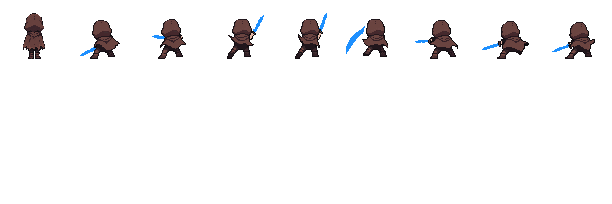
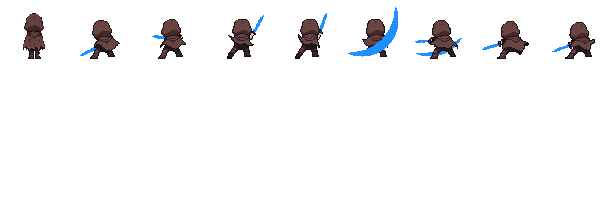
assets: 후면 1타 초승달 잔상 스크립트·비교 녹화

Changed region(s): [[0.5588, 0.0588, 0.652, 0.2941], [0.683, 0.2353, 0.7451, 0.2941], [0.7451, 0.1765, 0.7761, 0.2059]]

diff --git a/assets/concepts/pixellab/player_import/build_attack_back_pl.py b/assets/concepts/pixellab/player_import/build_attack_back_pl.py
@@ -26,8 +26,12 @@ KIT = os.path.join(HERE, 'attack_back_kit')
 PICK = {
     1: ['full_v3_1', 'full_v3_2', 'full_v3_3', 'full_v3_4', 'full_v3_5', 'full_v3_6', 'full_v3_7', 'full_v3_8'],
 }
-# 휘두르는 장에 겹칠 GPT 잔상: 타 → (8장 중 번호 0부터, GPT 시트 칸)
-ARC = {1: (4, 4)}
+# 휘두르는 장에 겹칠 GPT 잔상: 타 → (8장 중 번호 0부터, GPT 시트 칸). 1타는 아래 SWOOSH 로 대신 (5차)
+ARC = {}
+# 5차 (같은 날 사용자: 정면은 위압감 있게 딱 베는데 후면은 베는 느낌이 없음): 칼이 지나간 길대로 큰 초승달 잔상을 계산해 그린다.
+# 타 → [(8장 중 번호, 원 중심 x, y, 반지름, 시작 각도, 끝 각도, 가장 두꺼운 폭)]. 각도는 화면 기준(오른쪽 0, 아래 90).
+# 1타: 오른쪽 어깨 위에서 오른쪽 아래로 크게 부풀며 왼쪽 아래까지 (몸 뒤라 몸 밖으로 나온 부분만 보임), 다음 장은 얇게 남음.
+SWOOSH = {1: [(4, 22, 20, 36, -20, 112, 8), (5, 22, 20, 36, 30, 112, 4)]}
 # 좌우로 뒤집는 타 (2026-11-18 사용자: 측면·정면 1타는 화면 왼쪽 위로 들어 오른쪽 아래로 벰. GPT·PixelLab 후면은 반대였음).
 # 뒷모습은 거의 좌우 대칭이라 그림째 뒤집는다 (칼 위치는 build_remake_preview.OVERRIDES 'backpl1' 이 뒤집은 값).
 MIRROR = set()  # 3차에서 되돌림: 측면·정면처럼 오른쪽 위에서 내려벤다 (사용자 설명)
@@ -40,6 +44,27 @@ def blue_only(cell):
         for x in range(cell.width):
             if b.is_blue(src[x, y]):
                 dst[x, y] = pb.BLUE
+    return out
+
+
+SWOOSH_ON_TOP = {(1, 4)}  # 1타 내려베는 순간 (8장 중 5번째)
+
+
+def swoosh(size, cx, cy, r, a0, a1, thick):
+    """초승달 잔상 (파란 단색 = 게임에서 잔상 색으로 바뀜): 가운데가 가장 두껍고 양 끝은 가늘게."""
+    import math
+    out = Image.new('RGBA', size, (0, 0, 0, 0))
+    px = out.load()
+    steps = 240
+    for i in range(steps + 1):
+        t = i / steps
+        a = math.radians(a0 + (a1 - a0) * t)
+        w = thick * math.sin(math.pi * t) ** 0.7  # 바깥쪽으로 두께
+        for k in range(int(w * 4) + 1):
+            rr = r - k / 4
+            x, y = cx + rr * math.cos(a), cy + rr * math.sin(a)
+            if 0 <= x < size[0] and 0 <= y < size[1]:
+                px[int(x), int(y)] = pb.BLUE
     return out
 
 
@@ -56,6 +81,15 @@ def main():
                 arc = blue_only(gpt_rows[hit][ARC[hit][1]])
                 arc.alpha_composite(f)  # 잔상은 몸 뒤
                 f = arc
+            for k2, cx, cy, r, a0, a1, th in SWOOSH.get(hit, []):
+                if k2 == k:
+                    arc = swoosh(f.size, cx, cy, r, a0, a1, th)
+                    if (hit, k) in SWOOSH_ON_TOP:
+                        f = f.copy()
+                        f.alpha_composite(arc)  # 몸 위로도 이어지게 (게임은 build_remake_preview.SMEAR_ON_TOP 로 몸 위에 반투명하게)
+                    else:
+                        arc.alpha_composite(f)  # 잔상은 몸 뒤
+                        f = arc
             if hit in MIRROR:
                 f = f.transpose(Image.FLIP_LEFT_RIGHT)
             cells.append(f)

diff --git a/assets/concepts/pixellab/player_import/build_remake_preview.py b/assets/concepts/pixellab/player_import/build_remake_preview.py
@@ -106,7 +106,9 @@ FRAME_PICK = {
     'attack3': [1, 2, 3, 4, 5, 6, 7, 8],
 }
 # 파란 덩어리를 모두 휘두른 잔상으로 보는 프레임 (칼은 몸에 가려 안 보이고 잔상만 있음, 2026-11-18 후면 1·2타)
-FORCE_SMEAR = {('backgpt1', 4), ('backgpt2', 4), ('backpl1', 5)}
+FORCE_SMEAR = {('backgpt1', 4), ('backgpt2', 4), ('backpl1', 5), ('backpl1', 6)}
+# 잔상을 몸 위에 겹쳐 그리는 프레임 (반투명): 후면 1타 내려베는 순간 — 몸 뒤면 가운데가 가려져 한 번에 베는 느낌이 안 남 (2026-11-18)
+SMEAR_ON_TOP = {('backpl1', 5)}
 # 칼·잔상이 몸과 얼굴을 가로질러 지운 자리가 지저분하게 남는 프레임은 깨끗한 프레임의 그림을 빌려 쓴다
 # (2026-11-17 사용자 지적: 얼굴 그림자가 프레임마다 다르고 픽셀이 묻어 있음).
 # 1타 5·6번은 몸 자세가 7번과 거의 같아 몸 전체를 7번으로 (칼 각도와 잔상은 그 프레임 것).
@@ -561,9 +563,13 @@ def build_layers(name, frames):
                 for x in range(CELL):
                     if bl[x, y][3] and bpx[x, y][3] and max(bpx[x, y][:3]) < 45:
                         bpx[x, y] = (0, 0, 0, 0)
-        # 몸 레이어 = 잔상(뒤) + 몸
-        sheet = smear_layer(frame, smear)
-        sheet.alpha_composite(body)
+        # 몸 레이어 = 잔상(뒤) + 몸 (SMEAR_ON_TOP 이면 몸 위에 잔상)
+        if (name, col) in SMEAR_ON_TOP:
+            sheet = body.copy()
+            sheet.alpha_composite(smear_layer(frame, smear))
+        else:
+            sheet = smear_layer(frame, smear)
+            sheet.alpha_composite(body)
         # 손 레이어: 칼 위에 다시 그리는 손 둘레 몸 픽셀 (칼이 앞에 있을 때만)
         hand = Image.new('RGBA', (CELL, CELL), (0, 0, 0, 0))
         if not behind:
